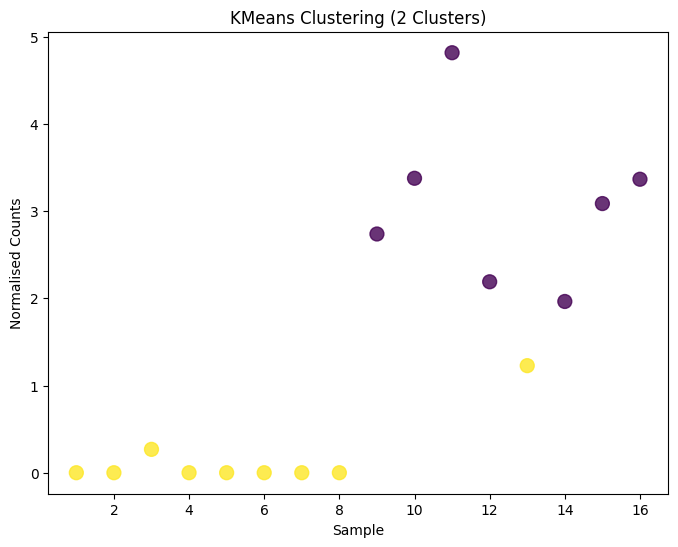
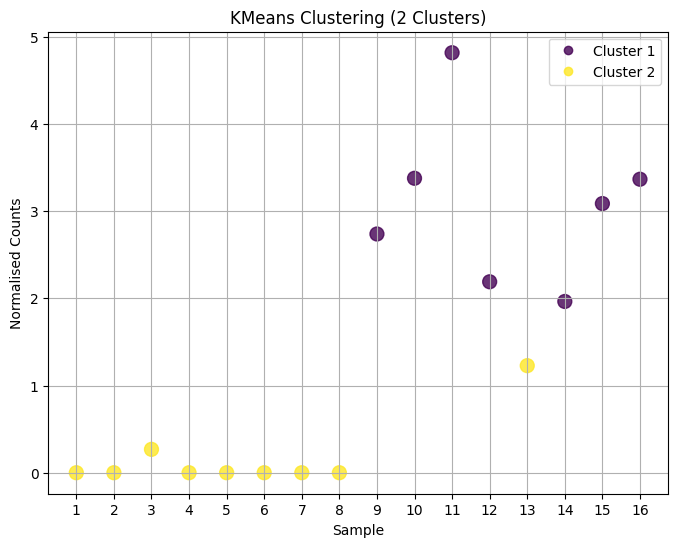
Updating analysis and README

diff --git a/analysis/analysis_script.py b/analysis/analysis_script.py
@@ -4,7 +4,7 @@ import numpy as np
 import matplotlib.pyplot as plt
 from sklearn.cluster import KMeans
 
-# Read in pipeline output into pandas dataframe
+# Read in pipeline output that has been copied into current directory into pandas dataframe
 pipe_out_df = pd.read_csv("combined_out.txt", sep="\t",header=None)
 
 # Take just the normalised counts
@@ -13,7 +13,7 @@ num_list = pipe_out_df[1].tolist()
 # Reshape the data to KMeans format
 samples_array = np.array(num_list).reshape(-1, 1)
 
-# initialise wcss array to use "Elbow Method" to determine best number of clusters to use
+# initialise wcss list to use "Elbow Method" to determine best number of clusters to use
 # we already know it's control vs. experiment, but for the sake of clarity/understanding
 wcss = []  
 
@@ -23,9 +23,9 @@ max_clusters = 6
 # Iterate over number of clusters
 for i in range(1, max_clusters + 1):
 
-    #Generate kmeans objects with increasing number of clusters until final iteration 
-    # choose a random seed from which to start from (I like 52)
-    # and choose how many iterations of starting with different initial centroid seeds
+    # Generate kmeans objects with increasing number of clusters until final iteration 
+    # choose a random seed from which to start from 
+    # and choose how many iterations of starting with differing initial centroid location(s)
     kmeans = KMeans(n_clusters=i, random_state=52, n_init=10)
     kmeans.fit(samples_array)
 
@@ -47,8 +47,8 @@ plt.savefig('elbow_method.png', bbox_inches='tight')
 cluster_num = 2  
 
 # Fit KMeans model to the sample values with our chosen criteria (2 clusters)
-# choose a random seed from which to start from (I like 52)
-# and choose how many iterations of starting with different initial centroid seeds
+# choose a random seed from which to start from 
+# and choose how many iterations of starting with differing initial centroid location
 kmeans = KMeans(n_clusters=cluster_num, random_state=52,n_init=10)
 kmeans.fit(samples_array)
 
@@ -63,16 +63,40 @@ distances = kmeans.transform(samples_array)
 # Iterate over the labels we've assigned and distances associated with each sample
 # We use zip here as we're pairing these cluster labels and distances together for each sample to form a tuple
 # Since we sorted numerically in the last pipeline step, this will be accurate for sample number on the plot!
+cluster_file = open('Cluster_Info.txt', 'w')
+
 for i, (label, distance) in enumerate(zip(cluster_labels, distances)):
-    print(f"Sample {i+1}: Cluster {label+1}, Distance to centroid: {distance[label]:.4f}")
+    distance_str= f"Sample {i+1}: Cluster {label+1}, Distance to centroid: {distance[label]:.3f}"
+    print(distance_str)
+    cluster_file.write(distance_str + "\n")
 
 # Plot the results using each of the sample's associated clusters and normalised counts
 # and save it
 plt.figure(figsize=(8, 6))
-plt.scatter(range(1,len(num_list)+1), num_list, c=cluster_labels, cmap='viridis', s=100, alpha=0.8)
+scatter = plt.scatter(range(1,len(num_list)+1), num_list, c=cluster_labels, cmap='viridis', s=100, alpha=0.8)
 plt.xlabel('Sample')
 plt.ylabel('Normalised Counts')
 plt.title(f'KMeans Clustering ({cluster_num} Clusters)')
+
+# Let's create a legend so we can see which data points belong to which cluster
+# Initialise list
+legend_elements = []
+
+# Create colours for each cluster by grabbing the legend markers/data point group(s) already present
+legend_elements = scatter.legend_elements()[0]
+
+# Iterate through the unique cluster labels and assign a label 
+for i, label in enumerate(np.unique(cluster_labels)):
+    legend_elements[i].set_label(f'Cluster {label + 1}')
+
+# Show the legend and add grid
+plt.legend(handles=legend_elements, loc='upper right')
+plt.grid(True)
+
+# Show every sample on the X axis rather than every second
+plt.xticks(range(1, len(num_list) + 1))
+
+# Save figure
 plt.savefig(f'kmeans_clustering_{cluster_num}_clusters.png', bbox_inches='tight')  
 
 # Let's be safe

diff --git a/README.md b/README.md
@@ -1,18 +1,44 @@
 # Advanced Coding Test: Broken String Biosciences
+### Answers to questions posed from the original GitLab repo can be found at the bottom of this REAMDE
 
 ## Pipeline explanation:
 This pipeline performs 4 steps:
 1. Filters the provided break bedfiles for a mapQ of >= 30
+
 2. Intersects each sample break bedfile with the AsiSI site bed file
+
 3. Sum(s) and normalise(s) the counts provided by bedtools
    * Sum the number of breaks per sample (provided by bedtools)
    * Normalise the number of breaks per sample (Sum of breaks/(Total Breaks/1000))
+
 4. Collect normalised number of AsiSI breaks
 
 ## Usage guide: 
 1. In order to run this you can use the pipeline by making sure you have all requirements (will make this/Dockerfile)
-1. Clone the repository ```git clone https://github.com/erichards52/Broken_string_adv_test.git```
-2. Pipeline can be run using: 
+
+2. Clone the repository ```git clone https://github.com/erichards52/Broken_string_adv_test.git```
+
+3. Pipeline can be run using: 
 ```nextflow run main.nf --bed_file data/breaks/ --bed_file_intersect ./chr21_AsiSI_sites.t2t.bed```
    * Pipeline uses the Nextflow workflow manager. Make sure you haven't moved any of the files present in the base level directory as all are required to be present. 
    * If you wish to move the location of the break bedfiles you can do this by specifying with the ```--bed_file <$PATH_TO_BREAK_BEDFILES>``` or if you wish to move the location of the AsiSI site bed file, this can be done via ```--bed_file_intersect <$PATH_TO_AsiSI_SITE_BEDFILE>```
+
+4. Output files as well as pipeline meta information can be found in the ```results_<$yyyy-MM-dd_HH-mm-ss>``` directory, which contains individual directories (named appopriately) containing outputs for each individual parallel process as well as a directory named ```pipeline_meta``` which contains a DAG, trace, as well as two viewable HTML reports (timeline and report)
+
+## N.B./Additional Info
+* (Python) Scripts used within processes can be found in the ```/bin``` directory
+
+* All analysis was done from within the ```/analysis``` directory (```analysis_script.py```) after having copied the final output of the pipeline (```combined_out.txt```) into the ```/analysis``` directory
+
+* Whilst timing decorators are not found within the pipeline inside individual processes, the trace files as well as HTMLs produced via Nextflow can be used to view an extensive number of traits from each parallel process' undertaken by the pipeline during each run
+
+## Answers to original repo questions:
+1. Which of the samples are likely to be controls or treated?
+   * Samples 1-8 are likely to be controls and samples 9,10,12,15 and 16 are likely to be the treated
+
+2. Are there any you are uncertain of?
+   * I am uncertain as to whether samples 11,13 and 14 are treated or a control as they exhibit the greatest distance from the cluster's centroid
+
+3. Can you explain the samples in the uncertain group?
+   * There are a number of reasons for each sample potentially belonging to the control group or the treated group:
+      1.  
